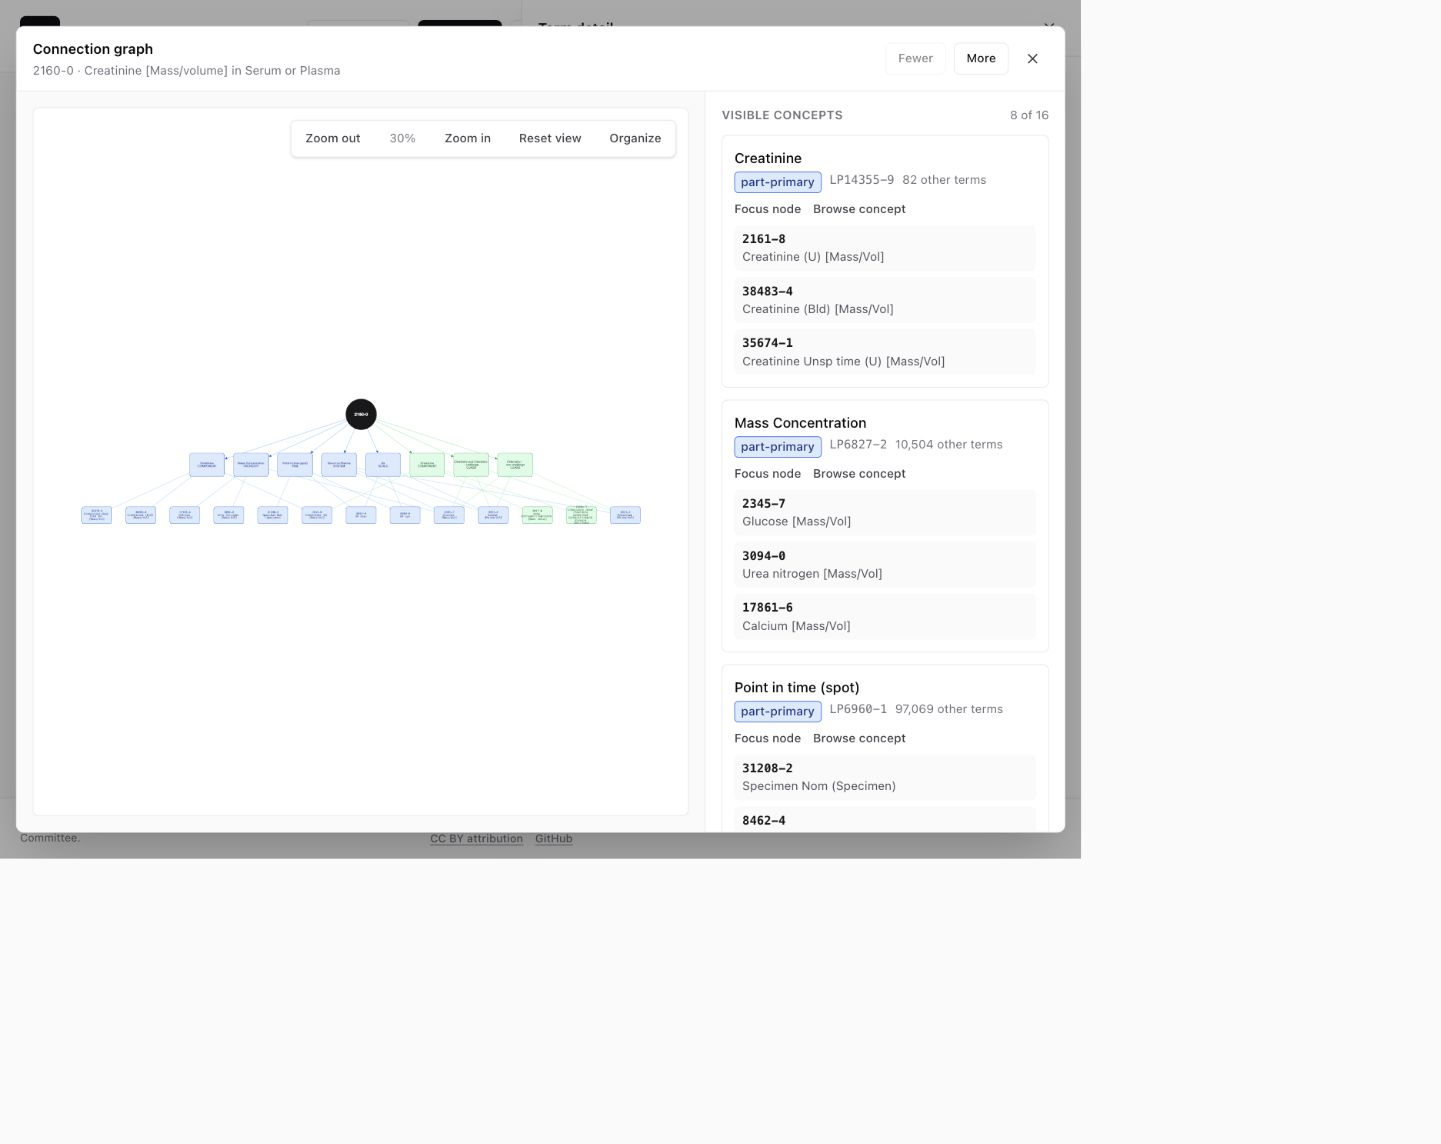
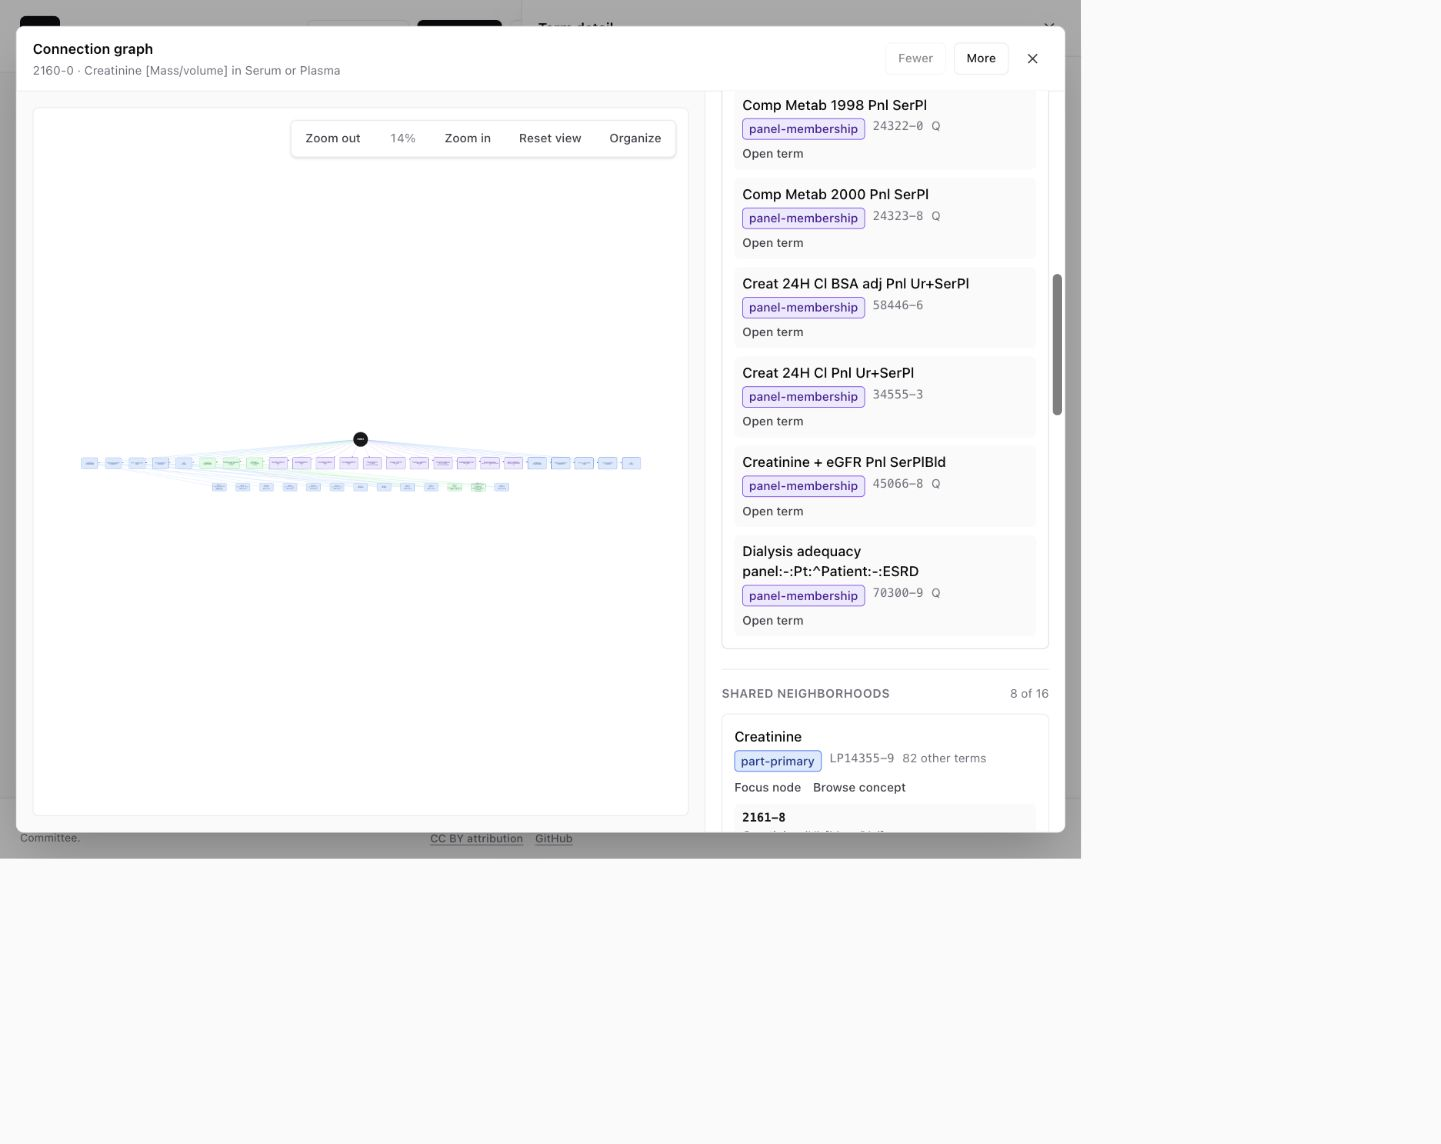
feat: prioritize listed term relationships in graph

diff --git a/web/src/lib/components/RelationshipGraph.svelte b/web/src/lib/components/RelationshipGraph.svelte
@@ -2,22 +2,41 @@
 	import { onDestroy, onMount, tick } from 'svelte';
 	import type cytoscape from 'cytoscape';
 	import type { Core, ElementDefinition } from 'cytoscape';
-	import type { RelationshipConcept, Term, TermSummary } from '$lib/api';
+	import type { MapTo, RelationshipConcept, Term, TermAccessory, TermRelationshipGraph, TermSummary } from '$lib/api';
 	import EmptyState from '$lib/components/EmptyState.svelte';
 
 	type Props = {
 		term: Term;
+		graph?: TermRelationshipGraph | null;
 		concepts: RelationshipConcept[];
 		maxConcepts?: number;
+		maxDirectRelationships?: number;
 		maxTermsPerConcept?: number;
 		onOpenTerm?: (loincNum: string) => void;
 		onBrowseConcept?: (concept: RelationshipConcept) => void;
 	};
 
+	type DirectRelationship = {
+		id: string;
+		kind: string;
+		code: string;
+		title: string;
+		subtitle: string;
+		loincNum?: string;
+		accessory?: TermAccessory;
+	};
+
+	type DirectSection = {
+		title: string;
+		items: DirectRelationship[];
+	};
+
 	let {
 		term,
+		graph = null,
 		concepts,
 		maxConcepts = 8,
+		maxDirectRelationships = 16,
 		maxTermsPerConcept = 3,
 		onOpenTerm = () => {},
 		onBrowseConcept = () => {},
@@ -35,8 +54,17 @@
 			.slice(0, maxConcepts),
 	);
 
+	const directRelationships = $derived(explicitRelationships(term, graph));
+	const displayedDirectRelationships = $derived(directRelationships.slice(0, maxDirectRelationships));
+	const directSections = $derived(groupDirectRelationships(displayedDirectRelationships));
+	const hasGraphItems = $derived(displayedDirectRelationships.length > 0 || displayedConcepts.length > 0);
+
 	function conceptID(concept: RelationshipConcept) {
 		return `concept:${concept.kind}:${concept.code || concept.title}`;
+	}
+
+	function directID(item: DirectRelationship) {
+		return `direct:${item.kind}:${item.code || item.title}:${item.id}`;
 	}
 
 	function termID(loincNum: string) {
@@ -57,9 +85,89 @@
 		return `${primary}\n${cleanSecondary}`;
 	}
 
+	function explicitRelationships(term: Term, graph: TermRelationshipGraph | null) {
+		const items: DirectRelationship[] = [];
+		const pushAccessory = (item: TermAccessory, index: number) => {
+			items.push({
+				id: `${item.kind}:${item.code}:${index}`,
+				kind: item.kind,
+				code: item.code,
+				title: item.title || item.code || item.kind,
+				subtitle: item.subtitle,
+				loincNum: item.code.match(/^\d+-\d$/) ? item.code : undefined,
+				accessory: item,
+			});
+		};
+		(term.parts ?? []).forEach(pushAccessory);
+		(term.answerLists ?? []).forEach(pushAccessory);
+		(term.panels ?? []).forEach(pushAccessory);
+		(term.groups ?? []).forEach(pushAccessory);
+		(term.hierarchy ?? []).forEach(pushAccessory);
+		(term.mapTo ?? []).forEach((item: MapTo, index: number) => {
+			items.push({
+				id: `map-to:${item.mapTo}:${index}`,
+				kind: 'map-to',
+				code: item.mapTo,
+				title: item.mapTo,
+				subtitle: item.comment || 'replacement mapping',
+				loincNum: item.mapTo,
+			});
+		});
+		(graph?.incomingMapTo ?? []).forEach((item: MapTo, index: number) => {
+			items.push({
+				id: `mapped-from:${item.loinc}:${index}`,
+				kind: 'mapped-from',
+				code: item.loinc,
+				title: item.loinc,
+				subtitle: item.comment || 'mapped from',
+				loincNum: item.loinc,
+			});
+		});
+		return items.sort((a, b) => explicitPriority(a.kind) - explicitPriority(b.kind) || a.title.localeCompare(b.title) || a.code.localeCompare(b.code));
+	}
+
+	function explicitPriority(kind: string) {
+		if (kind === 'part-primary') return 1;
+		if (kind === 'answer-list') return 2;
+		if (kind.includes('panel')) return 3;
+		if (kind === 'map-to' || kind === 'mapped-from') return 4;
+		if (kind === 'group') return 5;
+		if (kind === 'hierarchy') return 6;
+		if (kind === 'part-supplementary') return 7;
+		return 8;
+	}
+
+	function directSectionTitle(kind: string) {
+		if (kind === 'part-primary') return 'Primary parts';
+		if (kind === 'part-supplementary') return 'Supplementary parts';
+		if (kind === 'panel-membership') return 'Panel memberships';
+		if (kind === 'panel-child') return 'Panel children';
+		if (kind === 'answer-list') return 'Answer lists';
+		if (kind === 'map-to') return 'MapTo replacements';
+		if (kind === 'mapped-from') return 'Mapped from';
+		if (kind === 'group') return 'Groups';
+		if (kind === 'hierarchy') return 'Hierarchy placements';
+		return 'Other listed relationships';
+	}
+
+	function groupDirectRelationships(items: DirectRelationship[]) {
+		const sections: DirectSection[] = [];
+		for (const item of items) {
+			const title = directSectionTitle(item.kind);
+			let section = sections.find((candidate) => candidate.title === title);
+			if (!section) {
+				section = { title, items: [] };
+				sections.push(section);
+			}
+			section.items.push(item);
+		}
+		return sections;
+	}
+
 	function relationshipType(kind: string) {
 		if (kind === 'part-primary') return 'primary-part';
 		if (kind === 'part-supplementary') return 'supplementary-part';
+		if (kind.includes('map')) return 'mapping';
 		if (kind.includes('answer')) return 'answer-list';
 		if (kind.includes('panel')) return 'panel';
 		if (kind.includes('hierarchy')) return 'hierarchy';
@@ -75,6 +183,8 @@
 				return { background: '#dcfce7', border: '#16a34a', text: '#14532d' };
 			case 'answer-list':
 				return { background: '#fef3c7', border: '#d97706', text: '#78350f' };
+			case 'mapping':
+				return { background: '#fee2e2', border: '#dc2626', text: '#7f1d1d' };
 			case 'panel':
 				return { background: '#ede9fe', border: '#7c3aed', text: '#4c1d95' };
 			case 'hierarchy':
@@ -103,6 +213,33 @@
 			},
 		];
 		const seen = new Set([termID(term.loincNum)]);
+		for (const item of displayedDirectRelationships) {
+			const dID = directID(item);
+			if (!seen.has(dID)) {
+				seen.add(dID);
+				elements.push({
+					data: {
+						id: dID,
+						label: compactNodeLabel(item.title, item.subtitle || item.kind),
+						subtitle: item.code,
+						fullLabel: item.title,
+						type: 'direct',
+						relationship: relationshipType(item.kind),
+						loincNum: item.loincNum,
+					},
+				});
+			}
+			elements.push({
+				data: {
+					id: `edge:${termID(term.loincNum)}:${dID}`,
+					source: termID(term.loincNum),
+					target: dID,
+					label: 'listed',
+					type: 'direct-edge',
+					relationship: relationshipType(item.kind),
+				},
+			});
+		}
 		for (const concept of displayedConcepts) {
 			const cID = conceptID(concept);
 			if (!seen.has(cID)) {
@@ -218,9 +355,19 @@
 						shape: 'round-rectangle',
 					},
 				},
+				{
+					selector: 'node[type = "direct"]',
+					style: {
+						'border-width': 2,
+						'font-size': 10,
+						width: '132px',
+						height: '82px',
+					},
+				},
 				{ selector: 'node[relationship = "primary-part"]', style: { 'background-color': '#dbeafe', 'border-color': '#2563eb', color: '#1e3a8a' } },
 				{ selector: 'node[relationship = "supplementary-part"]', style: { 'background-color': '#dcfce7', 'border-color': '#16a34a', color: '#14532d' } },
 				{ selector: 'node[relationship = "answer-list"]', style: { 'background-color': '#fef3c7', 'border-color': '#d97706', color: '#78350f' } },
+				{ selector: 'node[relationship = "mapping"]', style: { 'background-color': '#fee2e2', 'border-color': '#dc2626', color: '#7f1d1d' } },
 				{ selector: 'node[relationship = "panel"]', style: { 'background-color': '#ede9fe', 'border-color': '#7c3aed', color: '#4c1d95' } },
 				{ selector: 'node[relationship = "hierarchy"]', style: { 'background-color': '#cffafe', 'border-color': '#0891b2', color: '#164e63' } },
 				{ selector: 'node[relationship = "group"]', style: { 'background-color': '#ffe4e6', 'border-color': '#e11d48', color: '#881337' } },
@@ -238,6 +385,7 @@
 				{ selector: 'edge[relationship = "primary-part"]', style: { 'line-color': '#93c5fd', 'target-arrow-color': '#2563eb' } },
 				{ selector: 'edge[relationship = "supplementary-part"]', style: { 'line-color': '#86efac', 'target-arrow-color': '#16a34a' } },
 				{ selector: 'edge[relationship = "answer-list"]', style: { 'line-color': '#fcd34d', 'target-arrow-color': '#d97706' } },
+				{ selector: 'edge[relationship = "mapping"]', style: { 'line-color': '#fca5a5', 'target-arrow-color': '#dc2626' } },
 				{ selector: 'edge[relationship = "panel"]', style: { 'line-color': '#c4b5fd', 'target-arrow-color': '#7c3aed' } },
 				{ selector: 'edge[relationship = "hierarchy"]', style: { 'line-color': '#67e8f9', 'target-arrow-color': '#0891b2' } },
 				{ selector: 'edge[relationship = "group"]', style: { 'line-color': '#fda4af', 'target-arrow-color': '#e11d48' } },
@@ -256,6 +404,10 @@
 			selectedConcept = displayedConcepts.find((concept) => conceptID(concept) === id) ?? null;
 		});
 		cy.on('tap', 'node[type = "related"]', (event) => {
+			const loincNum = event.target.data('loincNum');
+			if (loincNum) onOpenTerm(loincNum);
+		});
+		cy.on('tap', 'node[type = "direct"]', (event) => {
 			const loincNum = event.target.data('loincNum');
 			if (loincNum) onOpenTerm(loincNum);
 		});
@@ -314,9 +466,9 @@
 
 <div class="grid min-h-0 flex-1 gap-0 overflow-hidden lg:grid-cols-[minmax(0,2fr)_360px]">
 	<div class="min-h-[620px] bg-zinc-50 p-4">
-		{#if displayedConcepts.length === 0}
+		{#if !hasGraphItems}
 			<div class="flex h-full min-h-[620px] items-center justify-center rounded-md border border-zinc-200 bg-white">
-				<EmptyState title="No graph links" body="This term has no shared concept neighborhoods to draw." />
+				<EmptyState title="No graph links" body="This term has no listed relationships or shared concept neighborhoods to draw." />
 			</div>
 		{:else}
 			<div class="relative h-full min-h-[620px] rounded-md border border-zinc-200 bg-white">
@@ -333,13 +485,40 @@
 	</div>
 	<aside class="min-h-0 overflow-auto border-t border-zinc-200 p-4 lg:border-l lg:border-t-0">
 		<div class="mb-3 flex items-center justify-between gap-2">
-			<h3 class="text-xs font-semibold uppercase tracking-wide text-zinc-500">Visible concepts</h3>
-			<span class="text-xs text-zinc-500">{displayedConcepts.length} of {concepts.length}</span>
+			<h3 class="text-xs font-semibold uppercase tracking-wide text-zinc-500">Listed relationships</h3>
+			<span class="text-xs text-zinc-500">{displayedDirectRelationships.length} of {directRelationships.length}</span>
 		</div>
 		<div class="flex flex-col gap-3">
-			{#if displayedConcepts.length === 0}
-				<EmptyState title="No graph links" body="This term has no shared concept neighborhoods to draw." />
+			{#if displayedDirectRelationships.length === 0 && displayedConcepts.length === 0}
+				<EmptyState title="No graph links" body="This term has no listed relationships or shared concept neighborhoods to draw." />
 			{:else}
+				{#each directSections as section}
+					<section class="rounded-md border border-zinc-300 bg-white p-3">
+						<div class="mb-2 flex items-center justify-between gap-2">
+							<h4 class="text-xs font-semibold uppercase tracking-wide text-zinc-500">{section.title}</h4>
+							<span class="text-xs text-zinc-500">{section.items.length}</span>
+						</div>
+						<div class="flex flex-col gap-2">
+							{#each section.items as item}
+								<div class="rounded-md bg-zinc-50 px-2 py-1.5">
+									<div class="break-words text-sm font-medium text-zinc-950">{item.title}</div>
+									<div class="mt-1 flex flex-wrap gap-2 text-xs text-zinc-500">
+										<span class="rounded px-1.5 py-0.5 font-medium" style={conceptToneStyle(item.kind)}>{item.kind}</span>
+										{#if item.code}<span class="font-mono">{item.code}</span>{/if}
+										{#if item.subtitle}<span>{item.subtitle}</span>{/if}
+									</div>
+									{#if item.loincNum}
+										<button type="button" class="mt-1 text-xs font-medium text-zinc-700 hover:underline" onclick={() => onOpenTerm(item.loincNum || '')}>Open term</button>
+									{/if}
+								</div>
+							{/each}
+						</div>
+					</section>
+				{/each}
+				<div class="mt-2 flex items-center justify-between gap-2 border-t border-zinc-200 pt-4">
+					<h3 class="text-xs font-semibold uppercase tracking-wide text-zinc-500">Shared neighborhoods</h3>
+					<span class="text-xs text-zinc-500">{displayedConcepts.length} of {concepts.length}</span>
+				</div>
 				{#each displayedConcepts as concept}
 					<section class={`rounded-md border p-3 ${selectedConcept && conceptID(selectedConcept) === conceptID(concept) ? 'border-zinc-900 bg-zinc-50' : 'border-zinc-200'}`}>
 						<div class="break-words text-sm font-medium text-zinc-950">{conceptLabel(concept)}</div>

diff --git a/web/src/App.svelte b/web/src/App.svelte
@@ -807,6 +807,23 @@
 		return relationshipGraph?.sharedConcepts ?? [];
 	}
 
+	function directRelationshipCount() {
+		if (!selectedTerm) return 0;
+		return (
+			(selectedTerm.parts?.length ?? 0) +
+			(selectedTerm.answerLists?.length ?? 0) +
+			(selectedTerm.panels?.length ?? 0) +
+			(selectedTerm.groups?.length ?? 0) +
+			(selectedTerm.hierarchy?.length ?? 0) +
+			(selectedTerm.mapTo?.length ?? 0) +
+			(relationshipGraph?.incomingMapTo?.length ?? 0)
+		);
+	}
+
+	function graphVisibleLimitMax() {
+		return Math.max(sharedConcepts().length, Math.ceil(directRelationshipCount() / 2), 8);
+	}
+
 	function openBrowseDrawer() {
 		facetsCollapsed = false;
 		browseDrawerOpen = true;
@@ -1685,14 +1702,16 @@
 					</div>
 					<div class="flex items-center gap-2">
 						<Button variant="outline" size="sm" disabled={graphVisibleConceptLimit <= 8} on:click={() => (graphVisibleConceptLimit = Math.max(8, graphVisibleConceptLimit - 4))}>Fewer</Button>
-						<Button variant="outline" size="sm" disabled={graphVisibleConceptLimit >= sharedConcepts().length} on:click={() => (graphVisibleConceptLimit = Math.min(sharedConcepts().length, graphVisibleConceptLimit + 4))}>More</Button>
+						<Button variant="outline" size="sm" disabled={graphVisibleConceptLimit >= graphVisibleLimitMax()} on:click={() => (graphVisibleConceptLimit = Math.min(graphVisibleLimitMax(), graphVisibleConceptLimit + 4))}>More</Button>
 						<Button variant="ghost" size="icon" ariaLabel="Close relationship graph" on:click={() => (graphViewerOpen = false)}><X size={16} /></Button>
 					</div>
 				</div>
 				<RelationshipGraph
 					term={selectedTerm}
+					graph={relationshipGraph}
 					concepts={sharedConcepts()}
 					maxConcepts={graphVisibleConceptLimit}
+					maxDirectRelationships={graphVisibleConceptLimit * 2}
 					maxTermsPerConcept={3}
 					onOpenTerm={(loincNum) => openTerm(loincNum)}
 					onBrowseConcept={browseConcept}